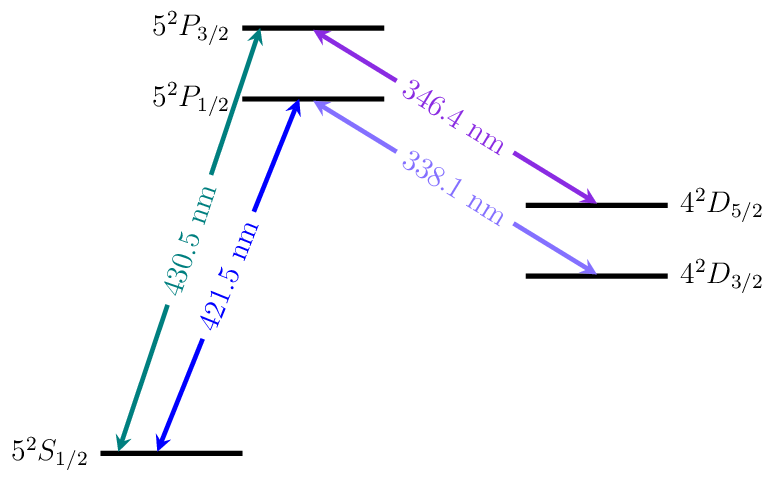
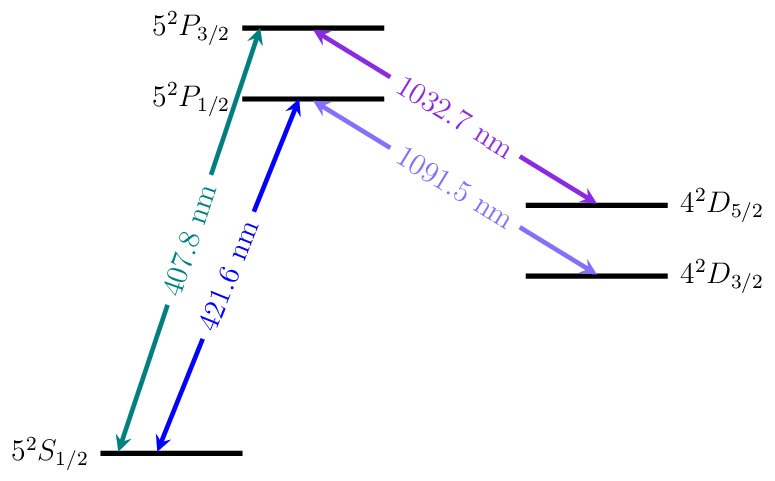
Fixing Sr+ figure and updating README.
Hat tip to Markus Hennrich [1] for pointing out the errors.

[1] http://www.quantumoptics.at/

diff --git a/searchindex.js b/searchindex.js
@@ -1,1 +1,1 @@
-Search.setIndex({envversion:42,terms:{"d\u00fcsseldorf":[3,10],ratio:[3,6,7],basel:7,under:[0,1,2,3,4,5,6,7,8,9,10],maryland:[8,2],sourc:1,auto:6,michigan:5,candid:1,mpq:9,oxford:7,continuum:[6,7,8,2],northwestern:3,lincoln:6,like:1,mit:6,common:[0,1,2,3,4,5,6,7,8,9,10],contain:1,found:1,attribut:[0,1,2,3,4,5,6,7,8,9,10],page:1,nist:[0,2,3,4,6,7,8,9,10],speci:1,radium:1,intern:[0,1,2,3,4,5,6,7,8,9,10],quantum:1,wikipedia:[0,2,3,4,5,6,7,8,9,10],content:1,figur:1,monro:1,experi:1,email:1,gtri:2,can:1,plu:[6,7],berkelei:7,ulm:3,thorium:1,here:4,strontium:1,host:1,base:1,strong:6,ioniz:6,ytterbium:1,aarhu:[7,9],origin:1,duke:2,washington:3,creativ:[0,1,2,3,4,5,6,7,8,9,10],your:[1,4],select:7,from:[3,1,6,7],would:1,licens:[0,1,2,3,4,5,6,7,8,9,10],univers:3,mercuri:1,mike:1,photon:[6,8],notic:1,neutral:[0,2,3,6,7,8,9,10],atom:1,line:[0,2,3,4,6,7,8,9,10],georgia:3,laser:6,work:[0,1,2,3,4,5,6,7,8,9,10],magnesium:1,error:1,comput:1,process:8,trap:1,depalati:1,file:1,alphabet:1,sharealik:[0,1,2,3,4,5,6,7,8,9,10],also:6,other:1,branch:[3,6,7],you:1,document:1,innsbruck:[3,7],singl:[6,8],lab:6,singlet:[0,2,3,6,7,8,9,10],tune:7,isotop:7,github:1,inform:1,maintain:1,tech:3,thi:[0,1,2,3,4,5,6,7,8,9,10],order:1},objtypes:{},objnames:{},filenames:["mercury","index","ytterbium","barium","radium","thorium","strontium","calcium","cadmium","magnesium","beryllium"],titles:["Mercury","Ion Periodic Table","Ytterbium","Barium","Radium","Thorium","Strontium","Calcium","Cadmium","Magnesium","Beryllium"],objects:{},titleterms:{transit:[0,2,3,4,5,6,7,8,9,10],period:1,tabl:1,wavelength:[0,2,3,4,5,6,7,8,9,10],energi:[0,2,3,4,5,6,7,8,9,10],strength:[0,2,3,4,5,6,7,8,9,10],group:[0,2,3,4,5,6,7,8,9,10],research:[0,2,3,4,5,6,7,8,9,10],mercuri:0,radium:4,beryllium:10,barium:3,thorium:5,diagram:[0,2,3,4,5,6,7,8,9,10],ion:1,cadmium:8,link:[0,2,3,4,5,6,7,8,9,10],photoion:[0,2,3,4,5,6,7,8,9,10],physic:[0,2,3,4,5,6,7,8,9,10],strontium:6,ytterbium:2,level:[0,2,3,4,5,6,7,8,9,10],properti:[0,2,3,4,5,6,7,8,9,10],calcium:7,magnesium:9}})
+Search.setIndex({envversion:42,terms:{all:1,"d\u00fcsseldorf":[3,10],mpq:9,ratio:[3,6,7],basel:7,under:[0,1,2,3,4,5,6,7,8,9,10],maryland:[8,2],sourc:1,branch:[3,6,7],auto:6,michigan:5,candid:1,vacuum:1,oxford:7,continuum:[6,7,8,2],northwestern:3,lincoln:6,like:1,list:1,common:[0,1,2,3,4,5,6,7,8,9,10],contain:1,found:1,attribut:[0,1,2,3,4,5,6,7,8,9,10],page:1,nist:[0,1,2,3,4,6,7,8,9,10],speci:1,radium:[],intern:[0,1,2,3,4,5,6,7,8,9,10],quantum:1,databas:1,wikipedia:[0,2,3,4,5,6,7,8,9,10],content:1,figur:1,version:1,"new":1,monro:1,experi:1,email:1,gtri:2,can:1,altern:1,plu:[6,7],berkelei:7,gener:1,ulm:3,thorium:[],here:[1,4],strontium:[],host:1,base:1,repositori:1,strong:6,ioniz:6,ytterbium:[],aarhu:[7,9],chang:1,origin:1,duke:2,washington:3,creativ:[0,1,2,3,4,5,6,7,8,9,10],your:[1,4],select:7,from:[3,1,6,7],would:1,licens:[0,1,2,3,4,5,6,7,8,9,10],univers:3,submit:1,mercuri:[],taken:1,"\u03bb":1,fork:1,mike:1,photon:[6,8],notic:1,neutral:[0,2,3,6,7,8,9,10],atom:1,line:[0,2,3,4,6,7,8,9,10],pull:1,georgia:3,laser:6,work:[0,1,2,3,4,5,6,7,8,9,10],air:1,magnesium:[],error:1,comput:1,process:8,trap:1,depalati:1,file:1,alphabet:1,make:1,sharealik:[0,1,2,3,4,5,6,7,8,9,10],also:6,other:1,which:1,you:1,document:1,mit:6,singl:[6,8],npl:6,lab:6,singlet:[0,2,3,6,7,8,9,10],pari:6,tune:7,isotop:7,github:1,innsbruck:[3,6,7],spectra:1,request:1,inform:1,maintain:1,tech:3,thi:[0,1,2,3,4,5,6,7,8,9,10],order:1},objtypes:{},objnames:{},filenames:["mercury","index","ytterbium","barium","radium","thorium","strontium","calcium","cadmium","magnesium","beryllium"],titles:["Mercury","Ion Periodic Table","Ytterbium","Barium","Radium","Thorium","Strontium","Calcium","Cadmium","Magnesium","Beryllium"],objects:{},titleterms:{transit:[0,2,3,4,5,6,7,8,9,10],period:1,tabl:1,wavelength:[0,2,3,4,5,6,7,8,9,10],energi:[0,2,3,4,5,6,7,8,9,10],strength:[0,2,3,4,5,6,7,8,9,10],group:[0,2,3,4,5,6,7,8,9,10],research:[0,2,3,4,5,6,7,8,9,10],mercuri:0,beryllium:10,radium:4,photoion:[0,2,3,4,5,6,7,8,9,10],barium:3,thorium:5,diagram:[0,2,3,4,5,6,7,8,9,10],ion:1,cadmium:8,link:[0,2,3,4,5,6,7,8,9,10],physic:[0,2,3,4,5,6,7,8,9,10],strontium:6,ytterbium:2,level:[0,2,3,4,5,6,7,8,9,10],properti:[0,2,3,4,5,6,7,8,9,10],calcium:7,magnesium:9}})

diff --git a/index.html b/index.html
@@ -164,9 +164,13 @@
 <p>These pages contain information on candidate ion species for use in
 ion trap quantum computing and other atomic physics experiments. It is
 originally based on pages maintained and hosted by the <a class="reference external" href="http://iontrap.umd.edu/">Monroe
-group</a>.</p>
+group</a> (their new version can be found <a class="reference external" href="http://iontrap.umd.edu/resources-2/periodic-table/">here</a>).</p>
+<p>Wavelengths are generally taken from the <a class="reference external" href="http://physics.nist.gov/PhysRefData/ASD/lines_form.html">NIST Atomic Spectra
+Database</a> which lists air wavelengths for 200 nm &lt; λ &lt; 2000 nm and
+vacuum wavelengths for all others.</p>
 <p>If you notice an error, or would like your group&#8217;s page linked to from
-an ion page, email <a class="reference external" href="mailto:depalatis&#37;&#52;&#48;phys&#46;au&#46;dk">Mike DePalatis</a>.</p>
+an ion page, fork the repository, make changes, and submit a pull
+request. Alternatively, email <a class="reference external" href="mailto:depalatis&#37;&#52;&#48;phys&#46;au&#46;dk">Mike DePalatis</a> with the requested changes.</p>
 <p>Source files for figures and this documentation can be found on
 <a class="reference external" href="https://github.com/mivade/ionptable">GitHub</a>.</p>
 <p>Contents in alphabetical order:</p>

diff --git a/strontium.html b/strontium.html
@@ -191,6 +191,9 @@ to continuum.  There is also a strong auto-ionization line at 405.5 nm
 <li><a class="reference external" href="http://web.mit.edu/~cua/www/quanta/">MIT</a></li>
 <li>MIT Lincoln Lab</li>
 <li><a class="reference external" href="http://www.nist.gov/pml/div688/grp10/index.cfm">NIST</a></li>
+<li><a class="reference external" href="http://www.npl.co.uk/science-technology/time-frequency/research/optical-frequency-standards/trapped-ion-optical-frequency-standards">NPL</a></li>
+<li><a class="reference external" href="http://www.mpq.univ-paris-diderot.fr/spip.php?rubrique29&amp;lang=en">Paris</a></li>
+<li><a class="reference external" href="http://heart-c704.uibk.ac.at/">Innsbruck</a></li>
 </ul>
 <hr/>
 <a rel="license"

diff --git a/_static/pygments.css b/_static/pygments.css
@@ -40,6 +40,7 @@
 .highlight .nv { color: #bb60d5 } /* Name.Variable */
 .highlight .ow { color: #007020; font-weight: bold } /* Operator.Word */
 .highlight .w { color: #bbbbbb } /* Text.Whitespace */
+.highlight .mb { color: #208050 } /* Literal.Number.Bin */
 .highlight .mf { color: #208050 } /* Literal.Number.Float */
 .highlight .mh { color: #208050 } /* Literal.Number.Hex */
 .highlight .mi { color: #208050 } /* Literal.Number.Integer */

diff --git a/figs/SrLevels/SrLevels.tex b/figs/SrLevels/SrLevels.tex
@@ -22,13 +22,13 @@
 
   % Transitions
   \draw[transition,blue] ($(S12)-(.2,-\dy)$) -- +($(P12)-(0,\dy)$)
-    node[tlabel] {421.5 nm};
+    node[tlabel] {421.6 nm};
   \draw[transition,teal] ($(S12)-(.75,-\dy)$) -- +($(P32)-(0,\dy)$)
-    node[tlabel] {430.5 nm};
+   node[tlabel] {407.8 nm};
   \draw[transition,LightSlateBlue] ($(D32)-(0,-\dy)$) -- ($(P12)-(0,\dy)$)
-    node[tlabel] {338.1 nm};
+    node[tlabel] {1091.5 nm};
   \draw[transition,BlueViolet] ($(D52)+(0,+\dy)$) -- ($(P32)+(0,-\dy)$)
-    node[tlabel] {346.4 nm};
+    node[tlabel] {1032.7 nm};
   % \draw[transition] ($(D32)+(0,\dy)$) -- ($(P32)-(.2,\dy)$)
   %   node[tlabel] {xxx nm};
   % \draw[transition] ($(S12)+(.7,\dy)$) -- ($(D32)+(.6,0)$)

diff --git a/index.rst b/index.rst
@@ -4,10 +4,20 @@ Ion Periodic Table
 These pages contain information on candidate ion species for use in
 ion trap quantum computing and other atomic physics experiments. It is
 originally based on pages maintained and hosted by the `Monroe
-group`_.
+group`_ (their new version can be found `here`__).
+
+__ http://iontrap.umd.edu/resources-2/periodic-table/
+
+Wavelengths are generally taken from the `NIST Atomic Spectra
+Database`__ which lists air wavelengths for 200 nm < λ < 2000 nm and
+vacuum wavelengths for all others.
+
+__ http://physics.nist.gov/PhysRefData/ASD/lines_form.html
 
 If you notice an error, or would like your group's page linked to from
-an ion page, email `Mike DePalatis <depalatis@phys.au.dk>`_.
+an ion page, fork the repository, make changes, and submit a pull
+request. Alternatively, email `Mike DePalatis
+<depalatis@phys.au.dk>`_ with the requested changes.
 
 Source files for figures and this documentation can be found on
 GitHub_.

diff --git a/README.md b/README.md
@@ -2,14 +2,16 @@ Ion Periodic Table
 ==================
 
 This repository recreates the Ion Periodic Table listing ions used in
-ion trapping experiments once hosted on the
-[Monroe group web page][monroe]. The source files for generating
-energy level diagram figures can be found in the `figs`
+ion trapping experiments originally hosted on the
+[Monroe group web page][monroe] (it has since been added back in a
+slightly different form [here][newptable]). The source files for
+generating energy level diagram figures can be found in the `figs`
 directory. Unless you are interested in using or modifying these
 figures, you probably want the [rendered pages][gh-pages] rather than
 the source tree.
 
 [monroe]: http://iontrap.umd.edu/
+[newptable]: http://iontrap.umd.edu/resources-2/periodic-table/
 [gh-pages]: http://mivade.github.io/ionptable/
 
 License

diff --git a/group_links.rst b/group_links.rst
@@ -15,3 +15,5 @@
 .. _Oxford: http://www2.physics.ox.ac.uk/research/ion-trap-quantum-computing-group
 .. _Ulm: http://www.uni-ulm.de/en/nawi/qm.html
 .. _University of Washington: https://depts.washington.edu/qcomp/
+.. _NPL: http://www.npl.co.uk/science-technology/time-frequency/research/optical-frequency-standards/trapped-ion-optical-frequency-standards
+.. _Paris: http://www.mpq.univ-paris-diderot.fr/spip.php?rubrique29&lang=en

diff --git a/strontium.rst b/strontium.rst
@@ -38,6 +38,9 @@ Research Groups
 * MIT_
 * MIT Lincoln Lab
 * NIST_
+* NPL_
+* Paris_
+* Innsbruck_
 
 .. include:: replacements.rst
 .. include:: group_links.rst
